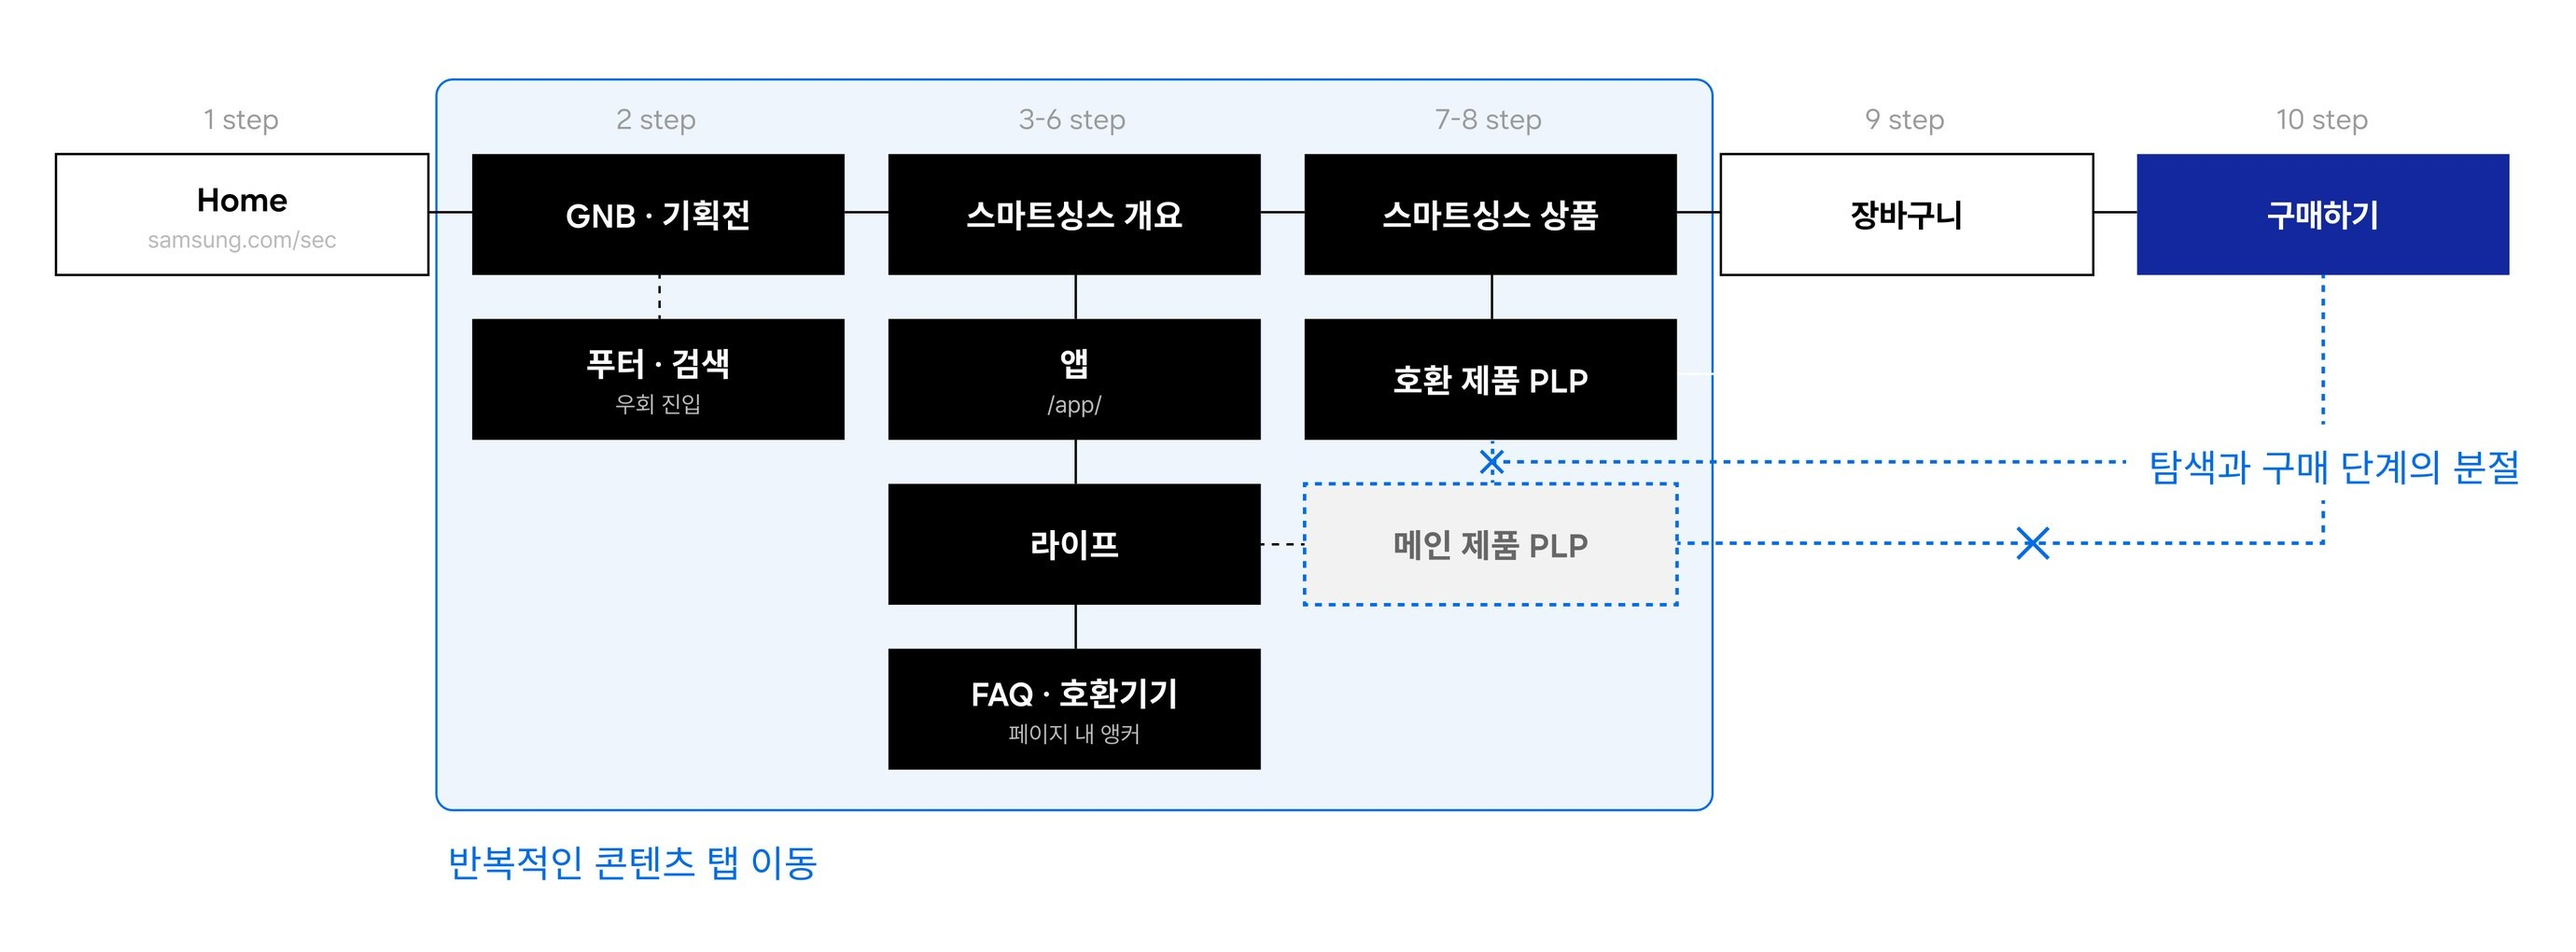
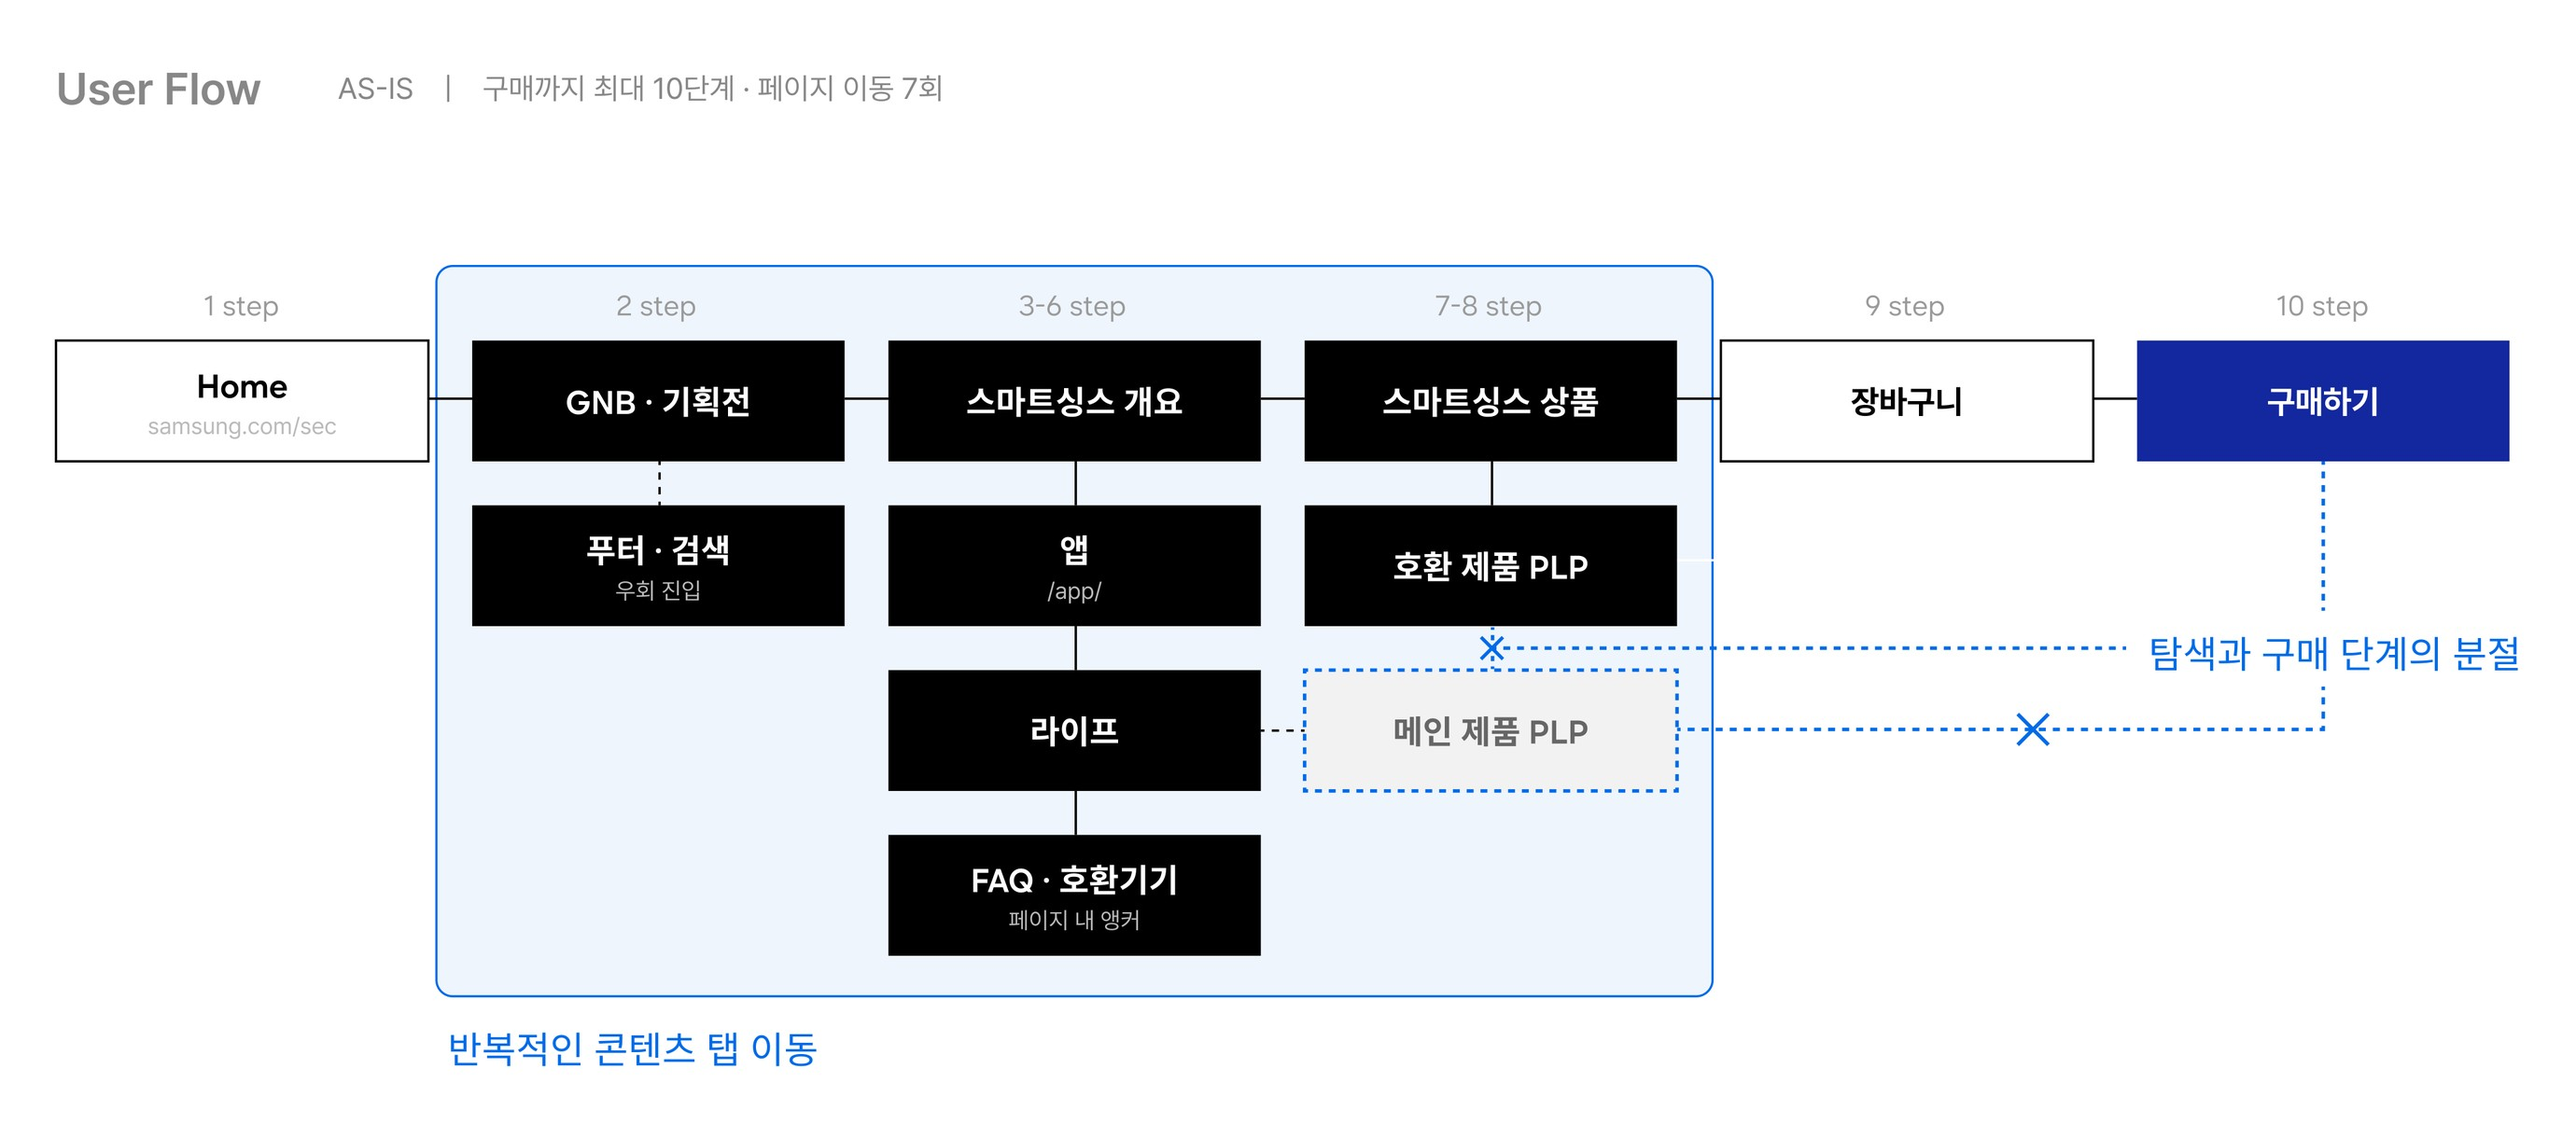
Catchtable: keep original flow titles (TO-BE recolored blue), smaller AS-IS
Claude-Session: https://claude.ai/code/session_01YA1f9o6pRyCJaqnAc7Xkww

diff --git a/catchtable/index.html b/catchtable/index.html
@@ -567,7 +567,8 @@
   .res3 .rd { margin:0; font-size:max(12px, calc(var(--u)*17)); line-height:1.65; color:#555; }
   .res-flow > p { margin:0 0 calc(var(--u)*28); }
   .uf { margin:0 0 calc(var(--u)*16); border-radius:calc(var(--u)*16); overflow:hidden; padding:calc(var(--u)*28) calc(var(--u)*24); }
-  .uf.asis { border:1px solid #eee; background:#fff; }
+  .uf.asis { border:1px solid #eee; background:#fff; padding:calc(var(--u)*8) calc(var(--u)*24); }
+  .uf.asis img { width:78%; margin:0 auto; }
   .uf.tobe { background:#f6f6f6; margin-bottom:0; }
   .uf img { display:block; width:100%; height:auto; }
   .uf figcaption { display:flex; align-items:center; gap:calc(var(--u)*14); margin:0 0 calc(var(--u)*24); font-size:max(13px, calc(var(--u)*18)); color:#666; }
@@ -854,8 +855,8 @@
   <div class="res-flow">
     <h4>그 결과, 구매까지의 흐름을 다시 설계했습니다</h4>
     <p>기능 탐색과 구매가 나뉘어 있던 경로를 SmartThings Studio 안의 진단 → 공간 체험 → 추천 구성 구매로 묶어, 끊김 없는 하나의 흐름으로 제안했습니다.</p>
-    <figure class="uf asis"><figcaption><b>AS-IS</b><i></i>구매까지 최대 10단계 · 페이지 이동 7회</figcaption><img src="img/st/flow-asis.jpg" width="2760" height="1020" alt="AS-IS 유저 플로우 — 구매까지 최대 10단계, 페이지 이동 7회" loading="lazy"></figure>
-    <figure class="uf tobe"><figcaption><b>TO-BE</b><i></i>이탈 없는 단일 플로우</figcaption><img src="img/st/flow-tobe.jpg" width="2760" height="890" alt="TO-BE 유저 플로우 — SmartThings Studio 중심의 단일 플로우" loading="lazy"></figure>
+    <figure class="uf asis"><img src="img/st/flow-asis.jpg" width="2760" height="1220" alt="AS-IS 유저 플로우 — 구매까지 최대 10단계, 페이지 이동 7회" loading="lazy"></figure>
+    <figure class="uf tobe"><img src="img/st/flow-tobe.jpg" width="2760" height="1060" alt="TO-BE 유저 플로우 — SmartThings Studio 중심의 단일 플로우" loading="lazy"></figure>
   </div>
 </div>
 </section>
